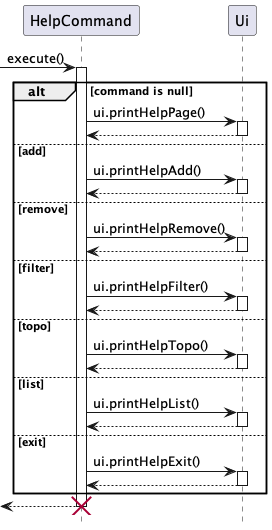
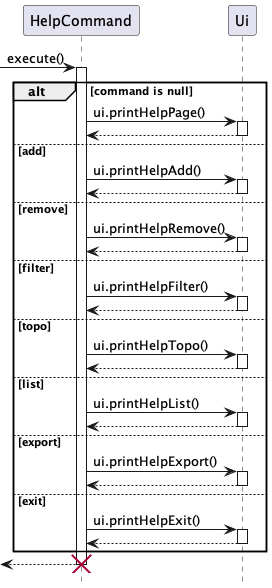
Add export to HelpCommand sequence diagram

diff --git a/docs/DeveloperGuide.md b/docs/DeveloperGuide.md
@@ -391,7 +391,7 @@ Given below is an example usage of how the `help c/add` mechanism behaves at eac
 
 > **Step 4**: HelpCommand object is destroyed and control is handed back to the `CLIAlgo`.
 
-The following **_Sequence Diagram_** shows how the help operation work.
+The following **_Sequence Diagram_** shows how the help operation works.
 
 ![](sequence-diagrams/diagrams/HelpFeature.png "HelpCommand Sequence Diagram")
 
